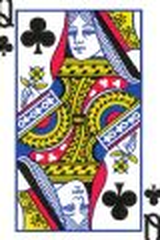
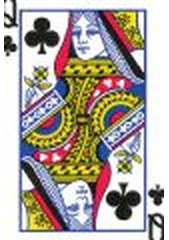
Even border on Blackjack court cards
The court art was narrower than the card slot, so object-fit: contain
left uneven white bands on the sides (an ugly left "border"). Pad every
court image to the card's aspect ratio with white and render with
object-fit: fill, so each face card fills edge-to-edge with an even white
border and nothing cropped. Bump CACHE_VERSION to v16.7.

Claude-Session: https://claude.ai/code/session_018dSC3E2dkUgQ9j1s6YYj7x

diff --git a/games/blackjack.html b/games/blackjack.html
@@ -137,11 +137,12 @@
     }
     .card .big-suit { position: absolute; left: 50%; top: 50%; transform: translate(-50%, -50%); font-size: calc(var(--w) * 0.72); }
 
-    /* Court cards: full suit-correct J/Q/K artwork, shown whole (never cropped). */
+    /* Court cards: suit-correct J/Q/K artwork, padded to the card's aspect
+       ratio so it fills edge-to-edge with an even white border, never cropped. */
     .card.court { background: #fff; }
     .card.court .court-img {
       position: absolute; inset: 0; width: 100%; height: 100%;
-      object-fit: contain; object-position: center; display: block;
+      object-fit: fill; display: block;
     }
 
     /* Card back */

diff --git a/service-worker.js b/service-worker.js
@@ -10,7 +10,7 @@
  * When the user taps it, the page posts SKIP_WAITING (below) so the new worker
  * activates immediately, then the page reloads onto the new version.
  */
-const CACHE_VERSION = 'alisha-arcade-v16.6';
+const CACHE_VERSION = 'alisha-arcade-v16.7';
 
 // Everything the app needs to run fully offline.
 const ASSETS = [
